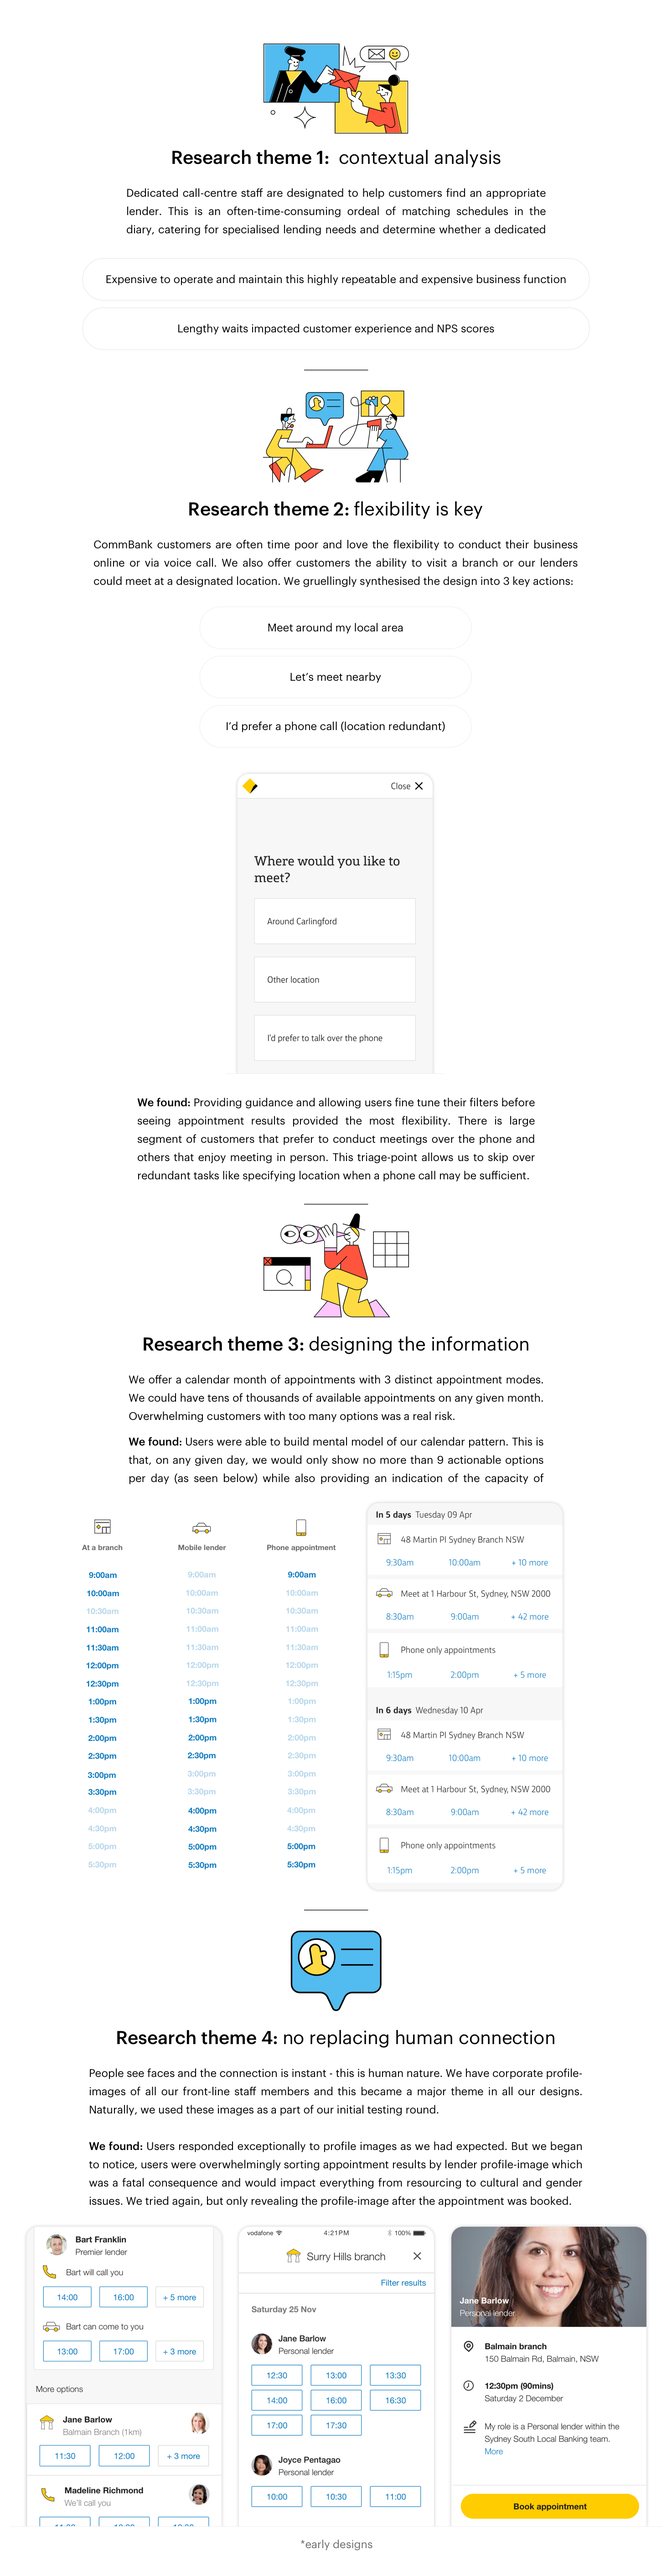
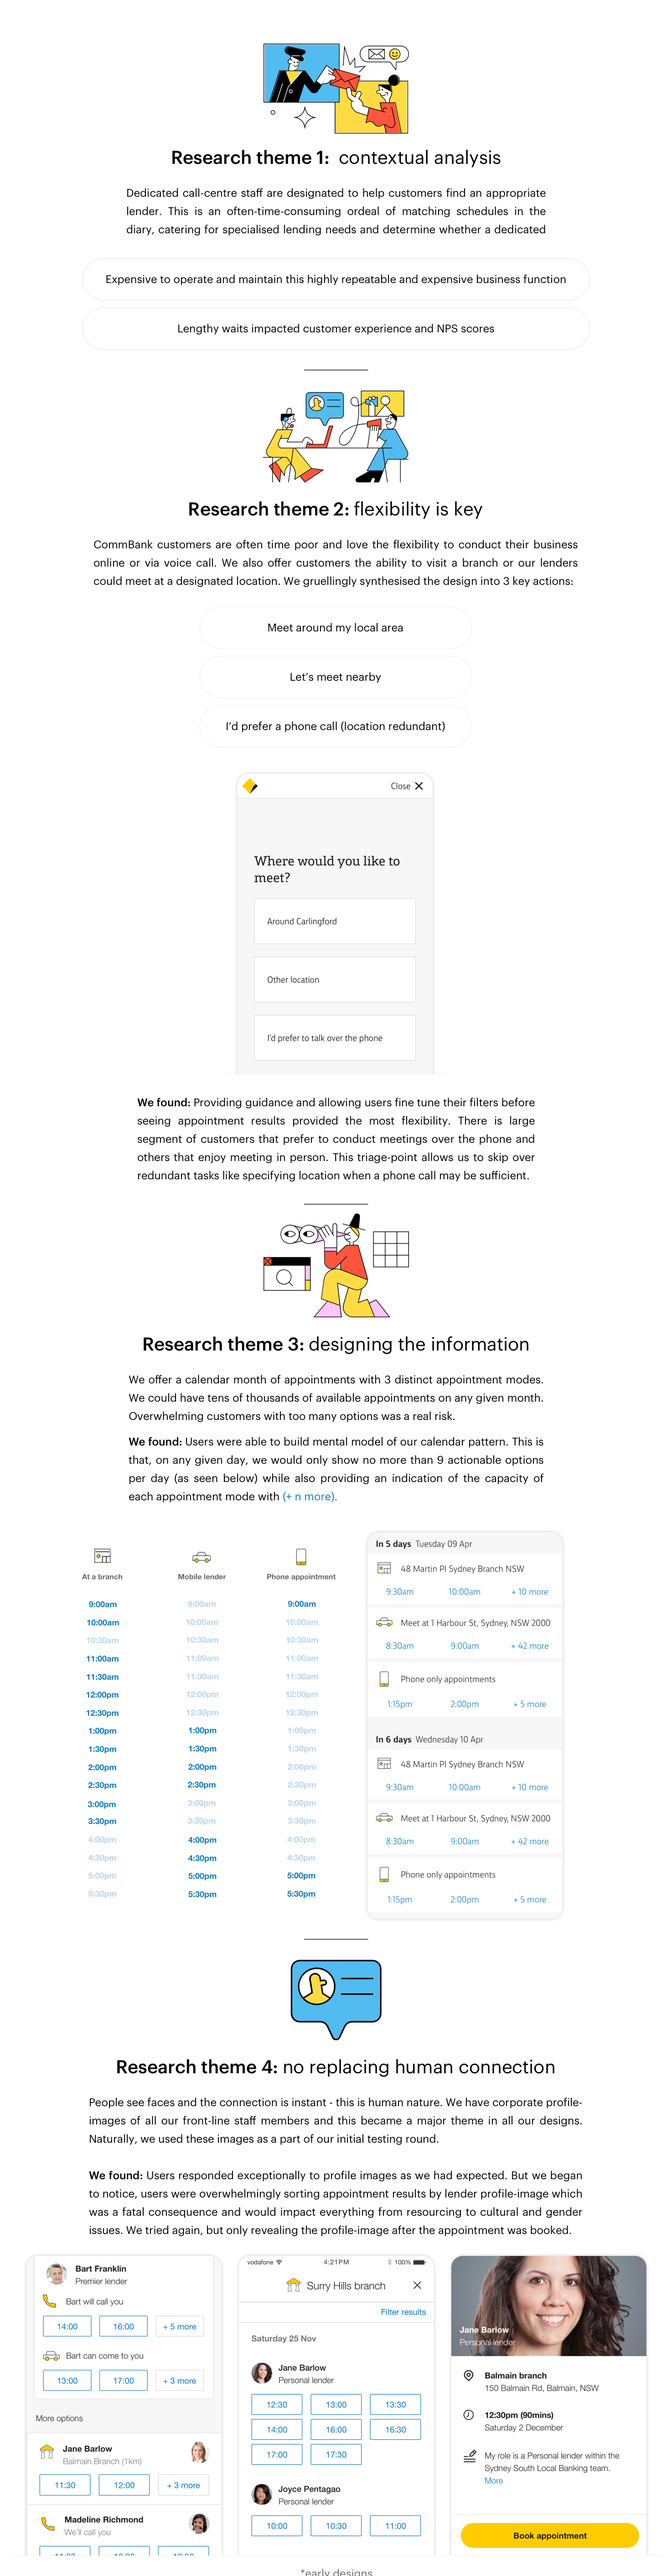
no message

diff --git a/a0111b67a03ca3a8592ef069f359cd303bd3b186/appointment-booking-v2.html b/a0111b67a03ca3a8592ef069f359cd303bd3b186/appointment-booking-v2.html
@@ -51,34 +51,82 @@
 			<p> 
 				The final strategic manoeuvre was to replace a decade old manual process of back and forth calling to schedule appointments with Home lenders. Finally in 2018, we released ‘Digital Appointment Booking’ nationally to all current and prospective customers.
 			</p>
-			<h3 class="portfolio-section"> User testing </h3>
+			<h3 class=""> User testing and interviews </h3>
 			<p> 
-				We wanted to understand the paths users take to complete their tasks, the relationship between time of day and their schedule to optimise this core business process that is highly repetitive and extremely high value as this is the first step of a series of important tasks towards one of the biggest life purchases for many.
+				We listened to users that had recently taken out mortgages as they talked about the rollercoasters of emotions in the home buying process, being able to speak with a trusted advisor and build a relationship was core to a successful transaction. 
 			</p>
 			<img class="" src="img/booking/testingNotes.png">
 			<h3 class="portfolio-section"> Book appointment user flow </h3>
 			<p>
-				This is the final high level user flow that compresses a process that could take over 24 hours in the past to up to 5 minutes flat.
+				This 5 minute digital interaction replaces a series of manual back-office process that often cumulated in a 24 hour turn-around. 
 			</p>
 		</div>
 		<div class="col-md-12 hero">
 			<img src="img/booking/flows.png">
 		</div>
 		<div class="col-md-8 col-md-offset-2 portfolio-section">
+
 			<h3> Design process and research activties </h3>
 			<p> 
 				 We spent the next 8 months performing research like speaking with key personnel including home lenders, customer service operators and the wider stakeholder team to gain broad understanding of the  workforce, the physical and digital environments they inhabit and the interactions that occur that forms the basis of one of the largest operations in Australia.
 			</p>
 		</div>
+		<div class="col-md-7 col-md-offset-3 portfolio-section center-text">
+			<img class="r-theme-img" src="img/booking/r-img-1.png">
+			<h4 class=""> Research theme 1: contextual analysis </h4>
+			<p> 
+				Dedicated call-centre staff are designated to help customers find an appropriate lender. This is an often-time-consuming ordeal of matching schedules in the diary, catering for specialised lending needs and determine whether a dedicated phone appointment with a lender would suffice for this interaction. 
+			</p>
+			<img class="p-1" src="img/booking/r-img-1.1.png">
+		</div>
+		<div class="col-md-7 col-md-offset-3 portfolio-section center-text">
+			<img class="r-theme-img" src="img/booking/r-img-2.png">
+			<h4 class=""> Research theme 2: flexibility is key </h4>
+			<p> 
+				CommBank customers are often time poor and love the flexibility to conduct their business online or via voice call. We also offer customers the ability to visit a branch or our lenders could meet at a designated location. We gruellingly synthesised the design into 3 key actions:
+			</p>
+			<img class="p-1 r-theme-img center"  src="img/booking/r-img-2.1.png">
+			<p> 
+				<b> We found: </b> Providing guidance and allowing users fine tune their filters before seeing appointment results provided a positive experience. A significant portion of customers prefer to conduct meetings over the phone and others that enjoy meeting in person. This triage-point allows us to skip over redundant tasks like specifying location when a phone call may be sufficient.
+			</p>
+		</div>
+		<div class="col-md-7 col-md-offset-3 portfolio-section center-text">
+			<img class="r-theme-img" src="img/booking/r-img-3.png">
+			<h4 class=""> Research theme 3: designing the information </h4>
+			<p> 
+				We could have tens of thousands of available appointments on any given month. Overwhelming customers with too many options was a real risk.
+
+			</p>
+			<p> 
+				<b> We found:</b> Users were able to build mental model of our calendar pattern. This is that, on any given day, we would only show no more than 9 actionable options per day (as seen below) while also providing an indication of the capacity of each appointment mode with <span class="blue-text"> (+ n more).</span>
+			</p>
+			<img class="p-1 center"  src="img/booking/r-img-3.1.png">
+		</div>
+
+		<div class="col-md-8 col-md-offset-2 portfolio-section center-text">
+			<img class="r-theme-img-2" src="img/booking/r-img-4.png">
+			<h4 class=""> Research theme 4: no replacing human connection </h4>
+			<p> 
+				People see faces and the connection is instant - this is human nature. We have corporate profile-images of all our front-line staff members and this became a major theme in all our designs. Naturally, we used these images as a part of our initial testing round.   
+			</p>
+			<p> 
+				<b> We found: </b> Users responded exceptionally to profile images as we had expected. But we began to notice, users were overwhelmingly sorting appointment results by lender profile-image which was a fatal consequence and would impact everything from resourcing to cultural and gender issues. We tried again, but only revealing the profile-image after the appointment was booked.
+			</p>
+			<img class="p-1 center" src="img/booking/r-img-4.1.png">
+		</div>
 		<div class="col-md-8 col-md-offset-2 hero">
-			<img src="img/booking/r-theme-1.png">
+			<h4 class=""> Results </h4>
+			<p> 
+				Released in late 2018. This is the front door and the first step for a significant amount of customers that need to connect to the bank for new and existing mortgages.
+			</p>
+			<img src="img/booking/results.png">
+				<!-- <p class="subtitle text-uppercase"> United system to originate and maintain all of IAG's products </p> -->
 		</div>
 		<div class="col-md-12 hero">
+			<h3 class="portfolio-section center-text"> Early concepts and sketches </h3>
 			<img src="img/booking/r-theme-2.png">
 		</div>
-		<div class="col-md-12 hero">
-			<h3> More to come... </h3>
-		</div>
+		
 	</section>
 </div>
 <script src="https://ajax.googleapis.com/ajax/libs/jquery/3.1.0/jquery.min.js"></script>

diff --git a/a0111b67a03ca3a8592ef069f359cd303bd3b186/css/proto.css b/a0111b67a03ca3a8592ef069f359cd303bd3b186/css/proto.css
@@ -15,6 +15,7 @@ a p { color: #333333; }
 p { font-size: 18px; line-height: 32px; margin-top: 12px; }
 h2 { font-size: 48px; font-weight: bold; padding-bottom: 16px; }
 h3 { font-size: 28px; line-height: 36px; padding-top: 24px; }
+h4 { font-size: 24px; }
 section { margin-top: 40px; }
 img { width: 100%; 
   image-rendering: auto;
@@ -69,11 +70,13 @@ ul.results li { list-style: none; margin-top: 4px; }
 span.subtitle { font-size: 14px; text-transform: uppercase; color: #AAAAAA; letter-spacing: 1px; }
 p.subtitle { font-size: 10px; color: black; letter-spacing: 1.5px; text-align: left; line-height: 16px; }
 p.card-description { font-size: 20px;  margin-top: 14px; }
-
+.r-theme-img { width: 40%; margin-bottom: 24px; }
+.r-theme-img-2 { width: 20%; margin-bottom: 24px; }
 .menu-title { font-size: 14px; color: #AAAAAA; font-weight: normal; letter-spacing: 0.5px; }
 
 /*shared margins*/
 
+.blue-text { color: #107BBF; }
 .black { color: black !important; }
 .uppercase { text-transform: uppercase; }
 .underline { text-decoration: underline; }
@@ -83,3 +86,4 @@ p.card-description { font-size: 20px;  margin-top: 14px; }
 .subline { border-top: 1px dotted black; padding: 24px 0 16px 0; }
 .right { float: right; text-align: right; }
 .clear { clear: both; }
+.center-text { text-align: center; }
